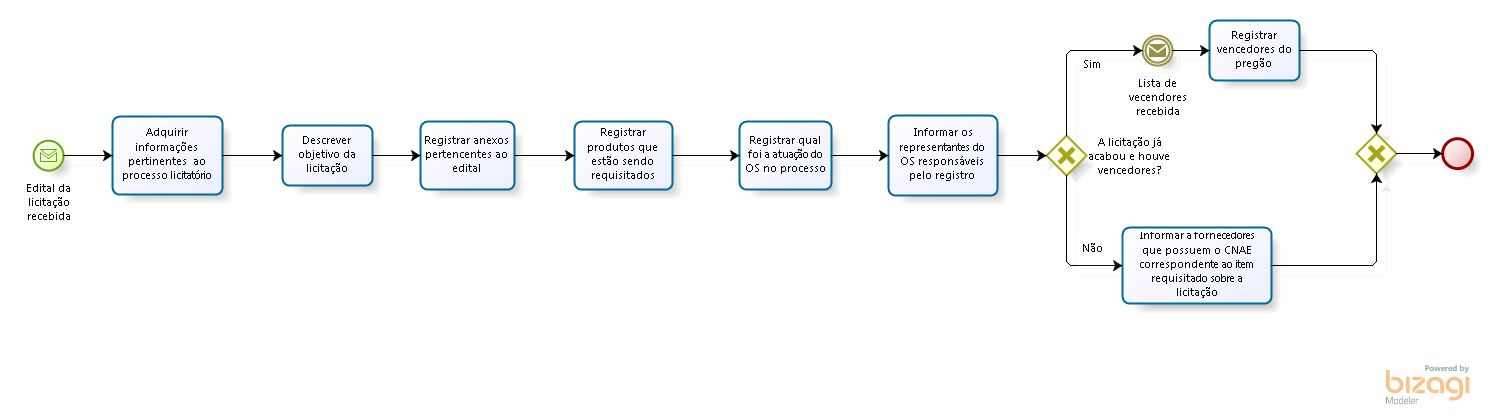
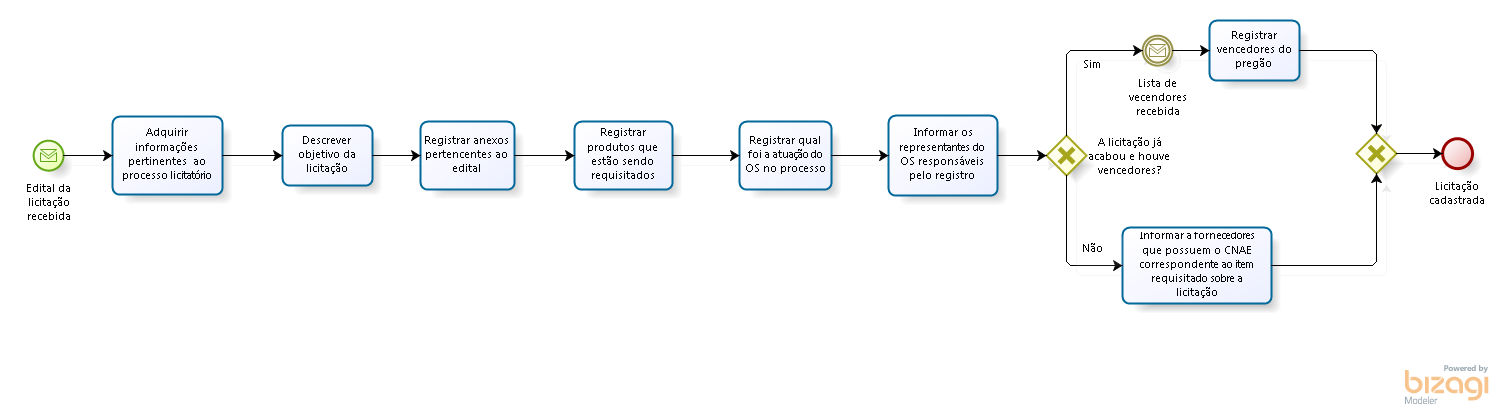
Refatoração do AS-IS

diff --git a/modelos/as-is/libs/js/json/configuration.json.js b/modelos/as-is/libs/js/json/configuration.json.js
@@ -1,1 +1,1 @@
-Bizagi.AppModel = {"personalized":false,"userLogoName":"\\libs\\img\\biz-ex-logo.png","bizagiUrl":"../../index.html","productName":"Bizagi Modeler","modelName":"As-Is SUJEITO A MUDANÇAS","publishDate":"14/03/2016 23:04:28","pages":[{"id":"4900ec46-6673-4b92-9cea-2ead6268862c","name":"Processo de Cadastramento de Licitações","version":"1.0","author":"cliente","image":"files\\diagrams\\Processo_de_Cadastramento_de_Licitacoes.png","isSubprocessPage":false,"elements":[{"id":"3dcf6f7e-a6d6-4b3b-b6b4-3597466986e4","name":"Observatório","elementImage":"files\\bpmnElements\\Participant.png","imageBounds":{"points":[{"x":20.0,"y":166.0}],"radius":0.0,"height":677.0,"width":50.0,"shape":"rect"},"elementType":"Participant","properties":[],"pageElements":[{"id":"0584135c-a88c-4838-9591-df6686612af6","name":"Documentos do Processo Licitatório Recebidos","elementImage":"files\\bpmnElements\\MessageStart.png","imageBounds":{"points":[{"x":125.0,"y":481.0}],"radius":15.0,"height":30.0,"width":30.0,"shape":"circle"},"elementType":"MessageStart"},{"id":"6faa62ec-958c-4423-bb1f-1e7b401b997f","name":"Cadastrar licitação no SIM","elementImage":"files\\bpmnElements\\SubProcess.png","imageBounds":{"points":[{"x":859.0,"y":720.0}],"radius":0.0,"height":60.0,"width":90.0,"shape":"rect"},"isPublished":true,"elementType":"SubProcess","properties":[]},{"id":"10a2eae6-888b-4f38-a444-20da634774df","name":"Mobilizar equipe para análise dos documentos expedidos","elementImage":"files\\bpmnElements\\AbstractTask.png","imageBounds":{"points":[{"x":332.0,"y":451.0}],"radius":0.0,"height":90.0,"width":139.0,"shape":"rect"},"elementType":"AbstractTask","properties":[]},{"id":"9234a240-ebaf-4a8d-9752-0391051b78af","name":"Documentos estão de acordo com a lei?","elementImage":"files\\bpmnElements\\ExclusiveGateway.png","imageBounds":{"points":[{"x":595.0,"y":476.0}],"radius":0.0,"height":40.0,"width":40.0,"shape":"poly"},"elementType":"ExclusiveGateway","properties":[],"pageElements":[{"name":"Sim","elementType":"SequenceFlow","properties":[]},{"name":"Não","elementType":"SequenceFlow","properties":[]}]},{"id":"9d6412ad-e924-455b-a642-4240469685bc","name":"Determinar equipe para  participar do certame","elementImage":"files\\bpmnElements\\AbstractTask.png","imageBounds":{"points":[{"x":655.0,"y":340.0}],"radius":0.0,"height":64.0,"width":101.0,"shape":"rect"},"elementType":"AbstractTask","properties":[]},{"id":"eb304f15-9b37-4193-8cb1-a07c1897ead8","name":"Dia do certame","elementImage":"files\\bpmnElements\\TimerIntermediate.png","imageBounds":{"points":[{"x":802.0,"y":357.0}],"radius":15.0,"height":30.0,"width":30.0,"shape":"circle"},"elementType":"TimerIntermediate"},{"id":"be98f8c6-4bec-4717-9208-e732e3bacd1c","name":"Monitorar e participar certame até que haja vencedores ","elementImage":"files\\bpmnElements\\SubProcess.png","imageBounds":{"points":[{"x":885.0,"y":342.0}],"radius":0.0,"height":60.0,"width":90.0,"shape":"rect"},"isPublished":true,"elementType":"SubProcess","properties":[]},{"id":"668e4d4d-222b-45e4-81e8-1b4ce32d2100","name":"Dia marcado para a entrega dos produtos","elementImage":"files\\bpmnElements\\TimerIntermediate.png","imageBounds":{"points":[{"x":1046.0,"y":357.0}],"radius":15.0,"height":30.0,"width":30.0,"shape":"circle"},"elementType":"TimerIntermediate"},{"id":"9bca7f44-5e02-4236-ade0-86caf3b4ad7e","name":"Mobilizar equipe para verificação da entrega ","elementImage":"files\\bpmnElements\\AbstractTask.png","imageBounds":{"points":[{"x":1122.0,"y":342.0}],"radius":0.0,"height":60.0,"width":95.0,"shape":"rect"},"elementType":"AbstractTask","properties":[]},{"id":"089f4a6d-e942-4e06-afd8-97df33a0ab96","name":"Os produtos são os mesmos solicitado?","elementImage":"files\\bpmnElements\\ExclusiveGateway.png","imageBounds":{"points":[{"x":1277.0,"y":352.0}],"radius":0.0,"height":40.0,"width":40.0,"shape":"poly"},"elementType":"ExclusiveGateway","properties":[],"pageElements":[{"name":"Sim","elementType":"SequenceFlow","properties":[]},{"name":"Não","elementType":"SequenceFlow","properties":[]}]},{"id":"e3c29863-74dc-43e7-a2c7-6525712b6715","name":"Comunicar um gestor sobre a irregularidade para tomada de providências cabíveis","elementImage":"files\\bpmnElements\\AbstractTask.png","imageBounds":{"points":[{"x":1234.0,"y":217.0}],"radius":0.0,"height":92.0,"width":126.0,"shape":"rect"},"elementType":"AbstractTask","properties":[]},{"id":"2b109ee6-4280-4bb4-a20f-acb404f59a6d","name":"Gateway","elementImage":"files\\bpmnElements\\ExclusiveGateway.png","imageBounds":{"points":[{"x":1438.88892,"y":352.0}],"radius":0.0,"height":40.0,"width":40.0,"shape":"poly"},"elementType":"ExclusiveGateway","properties":[],"pageElements":[{"name":"Portão","elementType":"SequenceFlow","properties":[]}]},{"id":"246fb247-a51f-40d7-b267-af0713fd9d83","name":"Efetuar uma solicitação de impugnação do edital","elementImage":"files\\bpmnElements\\AbstractTask.png","imageBounds":{"points":[{"x":654.0,"y":585.0}],"radius":0.0,"height":66.0,"width":102.0,"shape":"rect"},"elementType":"AbstractTask","properties":[]},{"id":"96de0ce2-9483-4337-b9d5-4c4dcc44f97d","name":"Edital corrigido","elementImage":"files\\bpmnElements\\TimerIntermediate.png","imageBounds":{"points":[{"x":818.0,"y":603.0}],"radius":15.0,"height":30.0,"width":30.0,"shape":"circle"},"elementType":"TimerIntermediate"},{"id":"ea1327ce-040c-48ea-ac85-42364f8cbaf3","name":"Gateway","elementImage":"files\\bpmnElements\\ParallelGateway.png","imageBounds":{"points":[{"x":216.0,"y":476.0}],"radius":0.0,"height":40.0,"width":40.0,"shape":"poly"},"elementType":"ParallelGateway","properties":[],"pageElements":[]},{"id":"e8640978-4e16-4b88-a560-279ab46c1cce","name":"Gateway","elementImage":"files\\bpmnElements\\ParallelGateway.png","imageBounds":{"points":[{"x":1515.0,"y":503.0}],"radius":0.0,"height":40.0,"width":40.0,"shape":"poly"},"elementType":"ParallelGateway","properties":[],"pageElements":[]},{"id":"eb516498-745e-4958-b93f-b351ca50f484","name":"Event","elementImage":"files\\bpmnElements\\NoneEnd.png","imageBounds":{"points":[{"x":1594.0,"y":508.0}],"radius":15.0,"height":30.0,"width":30.0,"shape":"circle"},"elementType":"NoneEnd"}]},{"id":"6281d3fb-45ca-4b81-8029-51e1c1ae4bae","name":"Prefeitura","elementImage":"files\\bpmnElements\\Participant.png","imageBounds":{"points":[{"x":20.0,"y":20.0}],"radius":0.0,"height":108.0,"width":50.0,"shape":"rect"},"elementType":"Participant","properties":[],"pageElements":[]}],"subPages":[{"id":"6faa62ec-958c-4423-bb1f-1e7b401b997f","name":"Cadastrar licitação no SIM","image":"files\\diagrams\\Cadastrar_licitacao_no_SIM.png","isSubprocessPage":true,"elements":[{"id":"70d12c9f-9844-44a6-96df-251c5839f773","name":"Edital da licitação recebida","elementImage":"files\\bpmnElements\\MessageStart.png","imageBounds":{"points":[{"x":33.0,"y":140.0}],"radius":15.0,"height":30.0,"width":30.0,"shape":"circle"},"elementType":"MessageStart"},{"id":"b5a121b2-fd94-483b-b7bb-63b47a983395","name":"Adquirir informações pertinentes  ao processo licitatório","elementImage":"files\\bpmnElements\\AbstractTask.png","imageBounds":{"points":[{"x":112.0,"y":116.0}],"radius":0.0,"height":78.0,"width":110.0,"shape":"rect"},"elementType":"AbstractTask","properties":[]},{"id":"c9fff6fe-b827-4456-b789-57db97eca613","name":"Descrever objetivo da licitação","elementImage":"files\\bpmnElements\\AbstractTask.png","imageBounds":{"points":[{"x":282.0,"y":125.0}],"radius":0.0,"height":60.0,"width":90.0,"shape":"rect"},"elementType":"AbstractTask","properties":[]},{"id":"eec63fe1-0318-4f15-8d1a-b07cda45bec2","name":"Registrar anexos  pertencentes ao edital","elementImage":"files\\bpmnElements\\AbstractTask.png","imageBounds":{"points":[{"x":420.0,"y":121.0}],"radius":0.0,"height":68.0,"width":94.0,"shape":"rect"},"elementType":"AbstractTask","properties":[]},{"id":"94db744e-291f-4970-9add-ddd1dbd2a805","name":"Registrar produtos que estão sendo requisitados","elementImage":"files\\bpmnElements\\AbstractTask.png","imageBounds":{"points":[{"x":574.0,"y":121.0}],"radius":0.0,"height":68.0,"width":98.0,"shape":"rect"},"elementType":"AbstractTask","properties":[]},{"id":"f39d4330-3571-4254-91f8-182c04bad035","name":"Registrar qual foi a atuação do OS no processo","elementImage":"files\\bpmnElements\\AbstractTask.png","imageBounds":{"points":[{"x":739.0,"y":121.0}],"radius":0.0,"height":68.0,"width":92.0,"shape":"rect"},"elementType":"AbstractTask","properties":[]},{"id":"a45347de-d0ed-4a04-9920-4dc127d4177a","name":"Informar os representantes do OS responsáveis pelo registro","elementImage":"files\\bpmnElements\\AbstractTask.png","imageBounds":{"points":[{"x":888.0,"y":115.0}],"radius":0.0,"height":80.0,"width":109.0,"shape":"rect"},"elementType":"AbstractTask","properties":[]},{"id":"ef30bbe1-0fa6-41be-ac64-9eaee675e9c6","name":"A licitação já acabou e houve vencedores?","elementImage":"files\\bpmnElements\\ExclusiveGateway.png","imageBounds":{"points":[{"x":1046.0,"y":135.0}],"radius":0.0,"height":40.0,"width":40.0,"shape":"poly"},"elementType":"ExclusiveGateway","properties":[],"pageElements":[{"name":"Sim","elementType":"SequenceFlow","properties":[]},{"name":"Não","elementType":"SequenceFlow","properties":[]}]},{"id":"cc3ecb41-550f-400d-97c1-d5e875c447bb","name":"Lista de vecendores recebida","elementImage":"files\\bpmnElements\\MessageIntermediate_Throw.png","imageBounds":{"points":[{"x":1142.0,"y":35.0}],"radius":15.0,"height":30.0,"width":30.0,"shape":"circle"},"elementType":"MessageIntermediate"},{"id":"33f78f6d-2a69-4e92-afb2-1e05e7ff2f17","name":"Registrar vencedores do pregão","elementImage":"files\\bpmnElements\\AbstractTask.png","imageBounds":{"points":[{"x":1209.0,"y":20.0}],"radius":0.0,"height":60.0,"width":90.0,"shape":"rect"},"elementType":"AbstractTask","properties":[]},{"id":"c7f7e054-61d6-4940-8c6e-b72b6811dccb","name":"Gateway","elementImage":"files\\bpmnElements\\ExclusiveGateway.png","imageBounds":{"points":[{"x":1356.0,"y":133.0}],"radius":0.0,"height":40.0,"width":40.0,"shape":"poly"},"elementType":"ExclusiveGateway","properties":[],"pageElements":[{"name":"Portão","elementType":"SequenceFlow","properties":[]}]},{"id":"eefcbc1b-ba86-4ced-b90b-78a42202b175","name":"Event","elementImage":"files\\bpmnElements\\NoneEnd.png","imageBounds":{"points":[{"x":1442.0,"y":138.0}],"radius":15.0,"height":30.0,"width":30.0,"shape":"circle"},"elementType":"NoneEnd"},{"id":"d620049d-6a95-427a-aa67-e1900ef64a33","name":"Informar a fornecedores que possuem o CNAE correspondente ao item requisitado sobre a licitação","elementImage":"files\\bpmnElements\\AbstractTask.png","imageBounds":{"points":[{"x":1122.0,"y":227.0}],"radius":0.0,"height":76.0,"width":149.0,"shape":"rect"},"elementType":"AbstractTask","properties":[]}],"parentRef":"4900ec46-6673-4b92-9cea-2ead6268862c"},{"id":"be98f8c6-4bec-4717-9208-e732e3bacd1c","name":"Monitorar e participar certame até que haja vencedores ","image":"files\\diagrams\\Monitorar_e_participar_certame_ate_que_haja_vencedores_.png","isSubprocessPage":true,"elements":[{"id":"237177fe-c120-42b9-ae58-4119b6abd2dc","name":"Event","elementImage":"files\\bpmnElements\\NoneStart.png","imageBounds":{"points":[{"x":20.0,"y":133.0}],"radius":15.0,"height":30.0,"width":30.0,"shape":"circle"},"elementType":"NoneStart"},{"id":"af4efe81-2562-442a-8c22-72c8fd774690","name":"Monitorar verificação dos itens apresentados","elementImage":"files\\bpmnElements\\AbstractTask.png","imageBounds":{"points":[{"x":124.0,"y":109.0}],"radius":0.0,"height":78.0,"width":106.0,"shape":"rect"},"elementType":"AbstractTask","properties":[]},{"id":"6ae5b524-278d-4f96-a21d-63e22e4f786b","name":"Algum item foi desqualificado?","elementImage":"files\\bpmnElements\\ExclusiveGateway.png","imageBounds":{"points":[{"x":291.0,"y":127.999969}],"radius":0.0,"height":40.0,"width":40.0,"shape":"poly"},"elementType":"ExclusiveGateway","properties":[],"pageElements":[{"name":"Sim","elementType":"SequenceFlow","properties":[]},{"name":"Não","elementType":"SequenceFlow","properties":[]}]},{"id":"e9519478-11fe-4536-8ce4-a21f8c57b78f","name":"Verificar motivo da desqualificação","elementImage":"files\\bpmnElements\\AbstractTask.png","imageBounds":{"points":[{"x":380.0,"y":20.0}],"radius":0.0,"height":68.0,"width":101.0,"shape":"rect"},"elementType":"AbstractTask","properties":[]},{"id":"7fd65d96-d583-47e9-b971-db696d25f368","name":"Gateway","elementImage":"files\\bpmnElements\\ExclusiveGateway.png","imageBounds":{"points":[{"x":525.0,"y":126.0}],"radius":0.0,"height":40.0,"width":40.0,"shape":"poly"},"elementType":"ExclusiveGateway","properties":[],"pageElements":[{"name":"Verificar se houve vencedores","elementType":"SequenceFlow","properties":[]}]},{"id":"ab9be0c6-0e5d-4ab3-a8ce-85c9484593f8","name":"Verificar se houve vencedores","elementImage":"files\\bpmnElements\\AbstractTask.png","imageBounds":{"points":[{"x":623.0,"y":116.0}],"radius":0.0,"height":60.0,"width":90.0,"shape":"rect"},"elementType":"AbstractTask","properties":[]},{"id":"b1a52857-4986-4a70-b940-06fcdd975034","name":"Event","elementImage":"files\\bpmnElements\\NoneEnd.png","imageBounds":{"points":[{"x":758.0,"y":131.0}],"radius":15.0,"height":30.0,"width":30.0,"shape":"circle"},"elementType":"NoneEnd"},{"id":"6bbe69d0-eb8a-40cb-8eb6-562212946a11","name":"Verificar se o item realmente está de acordo com o edital","elementImage":"files\\bpmnElements\\AbstractTask.png","imageBounds":{"points":[{"x":381.0,"y":211.0}],"radius":0.0,"height":66.0,"width":98.0,"shape":"rect"},"elementType":"AbstractTask","properties":[]}],"parentRef":"4900ec46-6673-4b92-9cea-2ead6268862c"}]}],"texts":{"tableOfContents":"Índice","pageNumber":"Página","pageNumberLabelOf":"de","version":"Versão","author":"Autor","description":"Descrição","mainPool":"Processo principal","mainPoolDescription":"Processo principal Descrição","processDiagrams":"Processar os Diagramas","processElements":"Elementos do processo","elements":"Elementos do processo","defaultElementName":"Elemento","performers":"Executantes","connectors":"Conectores","connector":"Conector","home":"Principal","search":"Pesquisar","goToParentProcess":"<< Ir para Matriz","visitBizagi":"Voltar para o site","contains":"Contém {0} subprocessos","showAll":"Show all","fullScreen":"Tela inteira","zoomIn":"Ampliar","zoomOut":"Reduzir","close":"Fechar","menu":"Menu: ","errorPage":"Erro ao visualizar a página","process":"Proceso","subProcess":"Subprocessos publicados","contain":"Contém","checkAttributes":"Ver atributos","checkOverview":"Ver resumo","unavailableResource":"O recurso não está disponível","localResource":"O recurso pode ser acessado localmente","performer":"Executor","linktoimage":"Link para a  imagem","presentationAction":"Ações de apresentação","searchGlobal":"Busca todos","searchLocal":"Busca neste processo","searchResults":"Nenhum resultado encontrado","titlePage":"Start","emptyElement":"Este elemento ainda não foi documentado","unsupported":"Seu navegador não suporta conteúdo exibido por esta página. <br> Recomendamos que você atualizar o seu navegador.","details":"Detalhes","expand":"Expandir","mainPoolProperties":"Propriedades do Processo principal","cannotVisualize":"The page cannot be displayed","resourceNotFound":"The requested resource was not found:","applyTheme":"Applying new theme"},"searchMap":[{"containerId":"4900ec46-6673-4b92-9cea-2ead6268862c","containerName":"Processo de Cadastramento de Licitações","isSubprocess":false,"elements":[{"id":"6281d3fb-45ca-4b81-8029-51e1c1ae4bae","value":"Prefeitura"},{"id":"3dcf6f7e-a6d6-4b3b-b6b4-3597466986e4","value":"Observatório"},{"id":"0584135c-a88c-4838-9591-df6686612af6","value":"Documentos do Processo Licitatório Recebidos"},{"id":"6faa62ec-958c-4423-bb1f-1e7b401b997f","value":"Cadastrar licitação no SIM"},{"id":"10a2eae6-888b-4f38-a444-20da634774df","value":"Mobilizar equipe para análise dos documentos expedidos"},{"id":"9234a240-ebaf-4a8d-9752-0391051b78af","value":"Documentos estão de acordo com a lei?"},{"id":"9d6412ad-e924-455b-a642-4240469685bc","value":"Determinar equipe para  participar do certame"},{"id":"668e4d4d-222b-45e4-81e8-1b4ce32d2100","value":"Dia marcado para a entrega dos produtos"},{"id":"eb304f15-9b37-4193-8cb1-a07c1897ead8","value":"Dia do certame"},{"id":"be98f8c6-4bec-4717-9208-e732e3bacd1c","value":"Monitorar e participar certame até que haja vencedores "},{"id":"9bca7f44-5e02-4236-ade0-86caf3b4ad7e","value":"Mobilizar equipe para verificação da entrega "},{"id":"089f4a6d-e942-4e06-afd8-97df33a0ab96","value":"Os produtos são os mesmos solicitado?"},{"id":"e3c29863-74dc-43e7-a2c7-6525712b6715","value":"Comunicar um gestor sobre a irregularidade para tomada de providências cabíveis"},{"id":"2b109ee6-4280-4bb4-a20f-acb404f59a6d","value":""},{"id":"246fb247-a51f-40d7-b267-af0713fd9d83","value":"Efetuar uma solicitação de impugnação do edital"},{"id":"96de0ce2-9483-4337-b9d5-4c4dcc44f97d","value":"Edital corrigido"},{"id":"ea1327ce-040c-48ea-ac85-42364f8cbaf3","value":""},{"id":"e8640978-4e16-4b88-a560-279ab46c1cce","value":""},{"id":"eb516498-745e-4958-b93f-b351ca50f484","value":""},{"id":"4d60567b-bd19-433b-a2ad-d553e9b057cb"},{"id":"653ce985-2180-4074-ab88-4b98cac8e5c2"}]},{"containerId":"6faa62ec-958c-4423-bb1f-1e7b401b997f","containerName":"Cadastrar licitação no SIM","isSubprocess":true,"elements":[{"id":"f39d4330-3571-4254-91f8-182c04bad035","value":"Registrar qual foi a atuação do OS no processo"},{"id":"c7f7e054-61d6-4940-8c6e-b72b6811dccb","value":""},{"id":"d620049d-6a95-427a-aa67-e1900ef64a33","value":"Informar a fornecedores que possuem o CNAE correspondente ao item requisitado sobre a licitação"},{"id":"eec63fe1-0318-4f15-8d1a-b07cda45bec2","value":"Registrar anexos  pertencentes ao edital"},{"id":"b5a121b2-fd94-483b-b7bb-63b47a983395","value":"Adquirir informações pertinentes  ao processo licitatório"},{"id":"33f78f6d-2a69-4e92-afb2-1e05e7ff2f17","value":"Registrar vencedores do pregão"},{"id":"eefcbc1b-ba86-4ced-b90b-78a42202b175","value":""},{"id":"c9fff6fe-b827-4456-b789-57db97eca613","value":"Descrever objetivo da licitação"},{"id":"ef30bbe1-0fa6-41be-ac64-9eaee675e9c6","value":"A licitação já acabou e houve vencedores?"},{"id":"a45347de-d0ed-4a04-9920-4dc127d4177a","value":"Informar os representantes do OS responsáveis pelo registro"},{"id":"70d12c9f-9844-44a6-96df-251c5839f773","value":"Edital da licitação recebida"},{"id":"cc3ecb41-550f-400d-97c1-d5e875c447bb","value":"Lista de vecendores recebida"},{"id":"94db744e-291f-4970-9add-ddd1dbd2a805","value":"Registrar produtos que estão sendo requisitados"}]},{"containerId":"be98f8c6-4bec-4717-9208-e732e3bacd1c","containerName":"Monitorar e participar certame até que haja vencedores ","isSubprocess":true,"elements":[{"id":"237177fe-c120-42b9-ae58-4119b6abd2dc","value":""},{"id":"af4efe81-2562-442a-8c22-72c8fd774690","value":"Monitorar verificação dos itens apresentados"},{"id":"6ae5b524-278d-4f96-a21d-63e22e4f786b","value":"Algum item foi desqualificado?"},{"id":"e9519478-11fe-4536-8ce4-a21f8c57b78f","value":"Verificar motivo da desqualificação"},{"id":"6bbe69d0-eb8a-40cb-8eb6-562212946a11","value":"Verificar se o item realmente está de acordo com o edital"},{"id":"7fd65d96-d583-47e9-b971-db696d25f368","value":""},{"id":"ab9be0c6-0e5d-4ab3-a8ce-85c9484593f8","value":"Verificar se houve vencedores"},{"id":"b1a52857-4986-4a70-b940-06fcdd975034","value":""}]}]}
+Bizagi.AppModel = {"personalized":false,"userLogoName":"\\libs\\img\\biz-ex-logo.png","bizagiUrl":"../../index.html","productName":"Bizagi Modeler","modelName":"As-Is SUJEITO A MUDANÇAS","publishDate":"15/03/2016 19:14:17","pages":[{"id":"dfe4c2ef-b9d1-4066-ae8e-234acd322f0b","name":"Processo de Cadastramento de Licitações","version":"1.0","author":"cliente","image":"files\\diagrams\\Processo_de_Cadastramento_de_Licitacoes.png","isSubprocessPage":false,"elements":[{"id":"eca57f63-5658-44e5-9b76-4f59242d1b3d","name":"Observatório","elementImage":"files\\bpmnElements\\Participant.png","imageBounds":{"points":[{"x":20.0,"y":166.0}],"radius":0.0,"height":677.0,"width":50.0,"shape":"rect"},"elementType":"Participant","properties":[],"pageElements":[{"id":"01e617dc-3437-4867-9820-ee5a076828a6","name":"Edital da licitação recebido","elementImage":"files\\bpmnElements\\NoneStart.png","imageBounds":{"points":[{"x":125.0,"y":481.0}],"radius":15.0,"height":30.0,"width":30.0,"shape":"circle"},"elementType":"NoneStart"},{"id":"fd097d91-3cd5-4d4a-93a6-9512cf1996b4","name":"Cadastrar licitação no SIM","elementImage":"files\\bpmnElements\\SubProcess.png","imageBounds":{"points":[{"x":859.0,"y":720.0}],"radius":0.0,"height":60.0,"width":90.0,"shape":"rect"},"isPublished":true,"elementType":"SubProcess","properties":[]},{"id":"88d90e1b-04f3-495c-a728-ccb5e06ebbd2","name":"Mobilizar equipe para análise dos documentos expedidos","elementImage":"files\\bpmnElements\\AbstractTask.png","imageBounds":{"points":[{"x":332.0,"y":451.0}],"radius":0.0,"height":90.0,"width":139.0,"shape":"rect"},"elementType":"AbstractTask","properties":[]},{"id":"1f9fa857-a3ef-4445-92b2-16c28c564470","name":"Documentos estão de acordo com a lei?","elementImage":"files\\bpmnElements\\ExclusiveGateway.png","imageBounds":{"points":[{"x":595.0,"y":476.0}],"radius":0.0,"height":40.0,"width":40.0,"shape":"poly"},"elementType":"ExclusiveGateway","properties":[],"pageElements":[{"name":"Sim","elementType":"SequenceFlow","properties":[]},{"name":"Não","elementType":"SequenceFlow","properties":[]}]},{"id":"e746334b-b9f1-4fa5-a7be-211a07d30757","name":"Determinar equipe para  participar do certame","elementImage":"files\\bpmnElements\\AbstractTask.png","imageBounds":{"points":[{"x":655.0,"y":340.0}],"radius":0.0,"height":64.0,"width":101.0,"shape":"rect"},"elementType":"AbstractTask","properties":[]},{"id":"fe47fcd6-b600-41cc-af7e-ffc56468c765","name":"Dia do certame","elementImage":"files\\bpmnElements\\TimerIntermediate.png","imageBounds":{"points":[{"x":802.0,"y":357.0}],"radius":15.0,"height":30.0,"width":30.0,"shape":"circle"},"elementType":"TimerIntermediate"},{"id":"94925a34-1713-47bc-adb5-17f69274e82c","name":"Monitorar e participar certame até que haja vencedores ","elementImage":"files\\bpmnElements\\SubProcess.png","imageBounds":{"points":[{"x":885.0,"y":342.0}],"radius":0.0,"height":60.0,"width":90.0,"shape":"rect"},"isPublished":true,"elementType":"SubProcess","properties":[]},{"id":"1c228f46-2766-4b41-9aef-cbb213e97f00","name":"Dia marcado para a entrega dos produtos","elementImage":"files\\bpmnElements\\TimerIntermediate.png","imageBounds":{"points":[{"x":1046.0,"y":357.0}],"radius":15.0,"height":30.0,"width":30.0,"shape":"circle"},"elementType":"TimerIntermediate"},{"id":"f6619b1a-7546-46f3-ba0f-a3e878a58e96","name":"Mobilizar equipe para verificação da entrega ","elementImage":"files\\bpmnElements\\AbstractTask.png","imageBounds":{"points":[{"x":1122.0,"y":342.0}],"radius":0.0,"height":60.0,"width":95.0,"shape":"rect"},"elementType":"AbstractTask","properties":[]},{"id":"264e63f3-12e0-4e91-abea-0416cab41d8a","name":"Os produtos são os mesmos solicitado?","elementImage":"files\\bpmnElements\\ExclusiveGateway.png","imageBounds":{"points":[{"x":1277.0,"y":352.0}],"radius":0.0,"height":40.0,"width":40.0,"shape":"poly"},"elementType":"ExclusiveGateway","properties":[],"pageElements":[{"name":"Sim","elementType":"SequenceFlow","properties":[]},{"name":"Não","elementType":"SequenceFlow","properties":[]}]},{"id":"43029a73-b8e1-4365-9e50-4dc1a35e6aca","name":"Comunicar um gestor sobre a irregularidade para tomada de providências cabíveis","elementImage":"files\\bpmnElements\\AbstractTask.png","imageBounds":{"points":[{"x":1234.0,"y":217.0}],"radius":0.0,"height":92.0,"width":126.0,"shape":"rect"},"elementType":"AbstractTask","properties":[]},{"id":"abb4bcd3-1408-4137-bc8e-672aca2b818e","name":"Gateway","elementImage":"files\\bpmnElements\\ExclusiveGateway.png","imageBounds":{"points":[{"x":1438.88892,"y":352.0}],"radius":0.0,"height":40.0,"width":40.0,"shape":"poly"},"elementType":"ExclusiveGateway","properties":[],"pageElements":[{"name":"Portão","elementType":"SequenceFlow","properties":[]}]},{"id":"bc2057da-228d-4205-b48c-3cc0cd8af3a0","name":"Efetuar uma solicitação de impugnação do edital","elementImage":"files\\bpmnElements\\AbstractTask.png","imageBounds":{"points":[{"x":654.0,"y":585.0}],"radius":0.0,"height":66.0,"width":102.0,"shape":"rect"},"elementType":"AbstractTask","properties":[]},{"id":"acc0eabf-2ad7-4416-88ba-03120bef515f","name":"Event","elementImage":"files\\bpmnElements\\MessageIntermediate.png","imageBounds":{"points":[{"x":863.0,"y":326.0}],"radius":11.0,"height":22.0,"width":22.0,"shape":"circle"},"elementType":"MessageIntermediate"},{"id":"a287971c-115f-4bcf-9c09-1ea1ee3cfff5","name":"Cancelar cadastro de licitação","elementImage":"files\\bpmnElements\\CompensationIntermediate_Throw.png","imageBounds":{"points":[{"x":908.0,"y":180.0}],"radius":15.0,"height":30.0,"width":30.0,"shape":"circle"},"elementType":"CompensationIntermediate"},{"id":"40350823-a22e-4501-ab87-2ccb415e0ef6","name":"Fim do acompanhamento","elementImage":"files\\bpmnElements\\TerminateEnd.png","imageBounds":{"points":[{"x":1006.0,"y":180.0}],"radius":15.0,"height":30.0,"width":30.0,"shape":"circle"},"elementType":"TerminateEnd"},{"id":"4c1eb271-b3bb-4885-90fb-45c3c45877c1","name":"Gateway","elementImage":"files\\bpmnElements\\ParallelGateway.png","imageBounds":{"points":[{"x":216.0,"y":476.0}],"radius":0.0,"height":40.0,"width":40.0,"shape":"poly"},"elementType":"ParallelGateway","properties":[],"pageElements":[]},{"id":"46146b10-c1d5-49c7-8483-90f42937986e","name":"Gateway","elementImage":"files\\bpmnElements\\ParallelGateway.png","imageBounds":{"points":[{"x":1515.0,"y":503.0}],"radius":0.0,"height":40.0,"width":40.0,"shape":"poly"},"elementType":"ParallelGateway","properties":[],"pageElements":[]},{"id":"1452fe46-3794-41b4-80e8-2fd091d6716b","name":"Fim do acompanhamento","elementImage":"files\\bpmnElements\\NoneEnd.png","imageBounds":{"points":[{"x":1594.0,"y":508.0}],"radius":15.0,"height":30.0,"width":30.0,"shape":"circle"},"elementType":"NoneEnd"},{"id":"b8f9749c-7703-4821-87e3-4c57427e57e1","name":"Edital corrigido","elementImage":"files\\bpmnElements\\MessageIntermediate_Catch.png","imageBounds":{"points":[{"x":807.0,"y":603.0}],"radius":15.0,"height":30.0,"width":30.0,"shape":"circle"},"elementType":"MessageIntermediate"},{"id":"5878a807-ee9e-443f-bdd8-6e50601ab168","name":"Event","elementImage":"files\\bpmnElements\\CompensationIntermediate.png","imageBounds":{"points":[{"x":847.0,"y":698.0}],"radius":11.0,"height":22.0,"width":22.0,"shape":"circle"},"elementType":"CompensationIntermediate"},{"id":"a904e55e-91fc-4f6f-bf35-1db1fa43fcf1","name":"Desfazer registros feitos no SIM","elementImage":"files\\bpmnElements\\AbstractTask.png","imageBounds":{"points":[{"x":971.0,"y":623.0}],"radius":0.0,"height":60.0,"width":90.0,"shape":"rect"},"elementType":"AbstractTask","properties":[]}]},{"id":"d82d4f17-d261-4a86-8b29-99d3547e1503","name":"Prefeitura","elementImage":"files\\bpmnElements\\Participant.png","imageBounds":{"points":[{"x":20.0,"y":20.0}],"radius":0.0,"height":108.0,"width":50.0,"shape":"rect"},"elementType":"Participant","properties":[],"pageElements":[]}],"subPages":[{"id":"fd097d91-3cd5-4d4a-93a6-9512cf1996b4","name":"Cadastrar licitação no SIM","image":"files\\diagrams\\Cadastrar_licitacao_no_SIM.png","isSubprocessPage":true,"elements":[{"id":"13003625-aa14-4a3d-8a95-f147d912eb92","name":"Edital da licitação recebida","elementImage":"files\\bpmnElements\\MessageStart.png","imageBounds":{"points":[{"x":33.0,"y":140.0}],"radius":15.0,"height":30.0,"width":30.0,"shape":"circle"},"elementType":"MessageStart"},{"id":"dd9c6d80-e0d6-4210-874b-fe40d1a54d09","name":"Adquirir informações pertinentes  ao processo licitatório","elementImage":"files\\bpmnElements\\AbstractTask.png","imageBounds":{"points":[{"x":112.0,"y":116.0}],"radius":0.0,"height":78.0,"width":110.0,"shape":"rect"},"elementType":"AbstractTask","properties":[]},{"id":"8249d620-9aae-4e14-9035-822376c33406","name":"Descrever objetivo da licitação","elementImage":"files\\bpmnElements\\AbstractTask.png","imageBounds":{"points":[{"x":282.0,"y":125.0}],"radius":0.0,"height":60.0,"width":90.0,"shape":"rect"},"elementType":"AbstractTask","properties":[]},{"id":"3e5a8c0e-e13d-43ea-ba17-bbc81ced2a86","name":"Registrar anexos  pertencentes ao edital","elementImage":"files\\bpmnElements\\AbstractTask.png","imageBounds":{"points":[{"x":420.0,"y":121.0}],"radius":0.0,"height":68.0,"width":94.0,"shape":"rect"},"elementType":"AbstractTask","properties":[]},{"id":"4225582f-cbdc-413a-b264-624485b0708c","name":"Registrar produtos que estão sendo requisitados","elementImage":"files\\bpmnElements\\AbstractTask.png","imageBounds":{"points":[{"x":574.0,"y":121.0}],"radius":0.0,"height":68.0,"width":98.0,"shape":"rect"},"elementType":"AbstractTask","properties":[]},{"id":"936dc4d3-a1de-4c8f-ac7a-72977964cf0b","name":"Registrar qual foi a atuação do OS no processo","elementImage":"files\\bpmnElements\\AbstractTask.png","imageBounds":{"points":[{"x":739.0,"y":121.0}],"radius":0.0,"height":68.0,"width":92.0,"shape":"rect"},"elementType":"AbstractTask","properties":[]},{"id":"4cc68f73-133d-4112-92ff-debf23b89ce6","name":"Informar os representantes do OS responsáveis pelo registro","elementImage":"files\\bpmnElements\\AbstractTask.png","imageBounds":{"points":[{"x":888.0,"y":115.0}],"radius":0.0,"height":80.0,"width":109.0,"shape":"rect"},"elementType":"AbstractTask","properties":[]},{"id":"1465aaf4-454c-4900-9a31-a9d2996dcd9c","name":"A licitação já acabou e houve vencedores?","elementImage":"files\\bpmnElements\\ExclusiveGateway.png","imageBounds":{"points":[{"x":1046.0,"y":135.0}],"radius":0.0,"height":40.0,"width":40.0,"shape":"poly"},"elementType":"ExclusiveGateway","properties":[],"pageElements":[{"name":"Sim","elementType":"SequenceFlow","properties":[]},{"name":"Não","elementType":"SequenceFlow","properties":[]}]},{"id":"1b774b41-6fa6-46a8-bbaf-9d1daaba6708","name":"Lista de vecendores recebida","elementImage":"files\\bpmnElements\\MessageIntermediate_Catch.png","imageBounds":{"points":[{"x":1142.0,"y":35.0}],"radius":15.0,"height":30.0,"width":30.0,"shape":"circle"},"elementType":"MessageIntermediate"},{"id":"d451eede-c583-44ad-8af5-c5ed2d572271","name":"Registrar vencedores do pregão","elementImage":"files\\bpmnElements\\AbstractTask.png","imageBounds":{"points":[{"x":1209.0,"y":20.0}],"radius":0.0,"height":60.0,"width":90.0,"shape":"rect"},"elementType":"AbstractTask","properties":[]},{"id":"6e2ed575-0694-4b21-bd6e-848b3104630a","name":"Gateway","elementImage":"files\\bpmnElements\\ExclusiveGateway.png","imageBounds":{"points":[{"x":1356.0,"y":133.0}],"radius":0.0,"height":40.0,"width":40.0,"shape":"poly"},"elementType":"ExclusiveGateway","properties":[],"pageElements":[{"name":"Licitação cadastrada","elementType":"SequenceFlow","properties":[]}]},{"id":"3225c79d-2051-4601-8c51-97001aceeed5","name":"Licitação cadastrada","elementImage":"files\\bpmnElements\\NoneEnd.png","imageBounds":{"points":[{"x":1442.0,"y":138.0}],"radius":15.0,"height":30.0,"width":30.0,"shape":"circle"},"elementType":"NoneEnd"},{"id":"de15962b-6bd9-4c0d-9faa-93c3c5f6bb29","name":"Informar a fornecedores que possuem o CNAE correspondente ao item requisitado sobre a licitação","elementImage":"files\\bpmnElements\\AbstractTask.png","imageBounds":{"points":[{"x":1122.0,"y":227.0}],"radius":0.0,"height":76.0,"width":149.0,"shape":"rect"},"elementType":"AbstractTask","properties":[]}],"parentRef":"dfe4c2ef-b9d1-4066-ae8e-234acd322f0b"},{"id":"94925a34-1713-47bc-adb5-17f69274e82c","name":"Monitorar e participar certame até que haja vencedores ","image":"files\\diagrams\\Monitorar_e_participar_certame_ate_que_haja_vencedores_.png","isSubprocessPage":true,"elements":[{"id":"29f19df7-1d27-41f1-96df-e8c65383780c","name":"Event","elementImage":"files\\bpmnElements\\NoneStart.png","imageBounds":{"points":[{"x":20.0,"y":133.0}],"radius":15.0,"height":30.0,"width":30.0,"shape":"circle"},"elementType":"NoneStart"},{"id":"bcb5b6ce-159b-4f06-aa37-c1b44099fea7","name":"Monitorar verificação dos itens apresentados","elementImage":"files\\bpmnElements\\AbstractTask.png","imageBounds":{"points":[{"x":124.0,"y":111.0}],"radius":0.0,"height":74.0,"width":96.0,"shape":"rect"},"elementType":"AbstractTask","properties":[]},{"id":"f4ce8aa5-916b-4702-b64b-bf30fe42214f","name":"Algum item foi desqualificado?","elementImage":"files\\bpmnElements\\ExclusiveGateway.png","imageBounds":{"points":[{"x":291.0,"y":127.999969}],"radius":0.0,"height":40.0,"width":40.0,"shape":"poly"},"elementType":"ExclusiveGateway","properties":[],"pageElements":[{"name":"Sim","elementType":"SequenceFlow","properties":[]},{"name":"Não","elementType":"SequenceFlow","properties":[]}]},{"id":"81d1293e-4095-4a48-8245-5a89328ed6c3","name":"Verificar motivo da desqualificação","elementImage":"files\\bpmnElements\\AbstractTask.png","imageBounds":{"points":[{"x":380.0,"y":20.0}],"radius":0.0,"height":68.0,"width":101.0,"shape":"rect"},"elementType":"AbstractTask","properties":[]},{"id":"103b2fd0-3795-4e16-b623-da11ade4a085","name":"Gateway","elementImage":"files\\bpmnElements\\ExclusiveGateway.png","imageBounds":{"points":[{"x":525.0,"y":126.0}],"radius":0.0,"height":40.0,"width":40.0,"shape":"poly"},"elementType":"ExclusiveGateway","properties":[],"pageElements":[{"name":"Verificar se houve vencedores","elementType":"SequenceFlow","properties":[]}]},{"id":"47684a39-764b-4173-b982-f7641730fc08","name":"Verificar se houve vencedores","elementImage":"files\\bpmnElements\\AbstractTask.png","imageBounds":{"points":[{"x":623.0,"y":116.0}],"radius":0.0,"height":60.0,"width":90.0,"shape":"rect"},"elementType":"AbstractTask","properties":[]},{"id":"bb43b4f9-6cff-4382-a85b-190d265dca16","name":"Fim do certame","elementImage":"files\\bpmnElements\\NoneEnd.png","imageBounds":{"points":[{"x":758.0,"y":131.0}],"radius":15.0,"height":30.0,"width":30.0,"shape":"circle"},"elementType":"NoneEnd"},{"id":"1d1d1943-8c43-4e85-9b59-9909158963ed","name":"Verificar se o item realmente está de acordo com o edital","elementImage":"files\\bpmnElements\\AbstractTask.png","imageBounds":{"points":[{"x":381.0,"y":211.0}],"radius":0.0,"height":66.0,"width":98.0,"shape":"rect"},"elementType":"AbstractTask","properties":[]}],"parentRef":"dfe4c2ef-b9d1-4066-ae8e-234acd322f0b"}]}],"texts":{"tableOfContents":"Índice","pageNumber":"Página","pageNumberLabelOf":"de","version":"Versão","author":"Autor","description":"Descrição","mainPool":"Processo principal","mainPoolDescription":"Processo principal Descrição","processDiagrams":"Processar os Diagramas","processElements":"Elementos do processo","elements":"Elementos do processo","defaultElementName":"Elemento","performers":"Executantes","connectors":"Conectores","connector":"Conector","home":"Principal","search":"Pesquisar","goToParentProcess":"<< Ir para Matriz","visitBizagi":"Voltar para o site","contains":"Contém {0} subprocessos","showAll":"Show all","fullScreen":"Tela inteira","zoomIn":"Ampliar","zoomOut":"Reduzir","close":"Fechar","menu":"Menu: ","errorPage":"Erro ao visualizar a página","process":"Proceso","subProcess":"Subprocessos publicados","contain":"Contém","checkAttributes":"Ver atributos","checkOverview":"Ver resumo","unavailableResource":"O recurso não está disponível","localResource":"O recurso pode ser acessado localmente","performer":"Executor","linktoimage":"Link para a  imagem","presentationAction":"Ações de apresentação","searchGlobal":"Busca todos","searchLocal":"Busca neste processo","searchResults":"Nenhum resultado encontrado","titlePage":"Start","emptyElement":"Este elemento ainda não foi documentado","unsupported":"Seu navegador não suporta conteúdo exibido por esta página. <br> Recomendamos que você atualizar o seu navegador.","details":"Detalhes","expand":"Expandir","mainPoolProperties":"Propriedades do Processo principal","cannotVisualize":"The page cannot be displayed","resourceNotFound":"The requested resource was not found:","applyTheme":"Applying new theme"},"searchMap":[{"containerId":"dfe4c2ef-b9d1-4066-ae8e-234acd322f0b","containerName":"Processo de Cadastramento de Licitações","isSubprocess":false,"elements":[{"id":"d82d4f17-d261-4a86-8b29-99d3547e1503","value":"Prefeitura"},{"id":"eca57f63-5658-44e5-9b76-4f59242d1b3d","value":"Observatório"},{"id":"fd097d91-3cd5-4d4a-93a6-9512cf1996b4","value":"Cadastrar licitação no SIM"},{"id":"88d90e1b-04f3-495c-a728-ccb5e06ebbd2","value":"Mobilizar equipe para análise dos documentos expedidos"},{"id":"1f9fa857-a3ef-4445-92b2-16c28c564470","value":"Documentos estão de acordo com a lei?"},{"id":"e746334b-b9f1-4fa5-a7be-211a07d30757","value":"Determinar equipe para  participar do certame"},{"id":"1c228f46-2766-4b41-9aef-cbb213e97f00","value":"Dia marcado para a entrega dos produtos"},{"id":"fe47fcd6-b600-41cc-af7e-ffc56468c765","value":"Dia do certame"},{"id":"94925a34-1713-47bc-adb5-17f69274e82c","value":"Monitorar e participar certame até que haja vencedores "},{"id":"f6619b1a-7546-46f3-ba0f-a3e878a58e96","value":"Mobilizar equipe para verificação da entrega "},{"id":"264e63f3-12e0-4e91-abea-0416cab41d8a","value":"Os produtos são os mesmos solicitado?"},{"id":"43029a73-b8e1-4365-9e50-4dc1a35e6aca","value":"Comunicar um gestor sobre a irregularidade para tomada de providências cabíveis"},{"id":"abb4bcd3-1408-4137-bc8e-672aca2b818e","value":""},{"id":"bc2057da-228d-4205-b48c-3cc0cd8af3a0","value":"Efetuar uma solicitação de impugnação do edital"},{"id":"4c1eb271-b3bb-4885-90fb-45c3c45877c1","value":""},{"id":"46146b10-c1d5-49c7-8483-90f42937986e","value":""},{"id":"1452fe46-3794-41b4-80e8-2fd091d6716b","value":"Fim do acompanhamento"},{"id":"b8f9749c-7703-4821-87e3-4c57427e57e1","value":"Edital corrigido"},{"id":"acc0eabf-2ad7-4416-88ba-03120bef515f","value":""},{"id":"5878a807-ee9e-443f-bdd8-6e50601ab168","value":""},{"id":"a904e55e-91fc-4f6f-bf35-1db1fa43fcf1","value":"Desfazer registros feitos no SIM"},{"id":"a287971c-115f-4bcf-9c09-1ea1ee3cfff5","value":"Cancelar cadastro de licitação"},{"id":"40350823-a22e-4501-ab87-2ccb415e0ef6","value":"Fim do acompanhamento"},{"id":"01e617dc-3437-4867-9820-ee5a076828a6","value":"Edital da licitação recebido"},{"id":"36427e02-8727-45fb-ae71-89d01baf3228"},{"id":"591db38c-105b-40f6-ab96-d4db8a2761ab"},{"id":"132f17e3-4a1f-4dae-aeda-2a45c5e159eb","value":"Cancelar cadastro de licitação"}]},{"containerId":"fd097d91-3cd5-4d4a-93a6-9512cf1996b4","containerName":"Cadastrar licitação no SIM","isSubprocess":true,"elements":[{"id":"936dc4d3-a1de-4c8f-ac7a-72977964cf0b","value":"Registrar qual foi a atuação do OS no processo"},{"id":"4225582f-cbdc-413a-b264-624485b0708c","value":"Registrar produtos que estão sendo requisitados"},{"id":"13003625-aa14-4a3d-8a95-f147d912eb92","value":"Edital da licitação recebida"},{"id":"4cc68f73-133d-4112-92ff-debf23b89ce6","value":"Informar os representantes do OS responsáveis pelo registro"},{"id":"1465aaf4-454c-4900-9a31-a9d2996dcd9c","value":"A licitação já acabou e houve vencedores?"},{"id":"8249d620-9aae-4e14-9035-822376c33406","value":"Descrever objetivo da licitação"},{"id":"1b774b41-6fa6-46a8-bbaf-9d1daaba6708","value":"Lista de vecendores recebida"},{"id":"d451eede-c583-44ad-8af5-c5ed2d572271","value":"Registrar vencedores do pregão"},{"id":"dd9c6d80-e0d6-4210-874b-fe40d1a54d09","value":"Adquirir informações pertinentes  ao processo licitatório"},{"id":"3e5a8c0e-e13d-43ea-ba17-bbc81ced2a86","value":"Registrar anexos  pertencentes ao edital"},{"id":"de15962b-6bd9-4c0d-9faa-93c3c5f6bb29","value":"Informar a fornecedores que possuem o CNAE correspondente ao item requisitado sobre a licitação"},{"id":"6e2ed575-0694-4b21-bd6e-848b3104630a","value":""},{"id":"3225c79d-2051-4601-8c51-97001aceeed5","value":"Licitação cadastrada"}]},{"containerId":"94925a34-1713-47bc-adb5-17f69274e82c","containerName":"Monitorar e participar certame até que haja vencedores ","isSubprocess":true,"elements":[{"id":"29f19df7-1d27-41f1-96df-e8c65383780c","value":""},{"id":"bcb5b6ce-159b-4f06-aa37-c1b44099fea7","value":"Monitorar verificação dos itens apresentados"},{"id":"f4ce8aa5-916b-4702-b64b-bf30fe42214f","value":"Algum item foi desqualificado?"},{"id":"81d1293e-4095-4a48-8245-5a89328ed6c3","value":"Verificar motivo da desqualificação"},{"id":"1d1d1943-8c43-4e85-9b59-9909158963ed","value":"Verificar se o item realmente está de acordo com o edital"},{"id":"103b2fd0-3795-4e16-b623-da11ade4a085","value":""},{"id":"47684a39-764b-4173-b982-f7641730fc08","value":"Verificar se houve vencedores"},{"id":"bb43b4f9-6cff-4382-a85b-190d265dca16","value":"Fim do certame"}]}]}

diff --git a/modelos/as-is/index.html b/modelos/as-is/index.html
@@ -4,7 +4,7 @@
  @author: UX-Team
  @version: 0.1.0
  @url: http://www.bizagi.com
- @date: Aug 14, 2015 4:08 PM 
+ @date: Aug 14, 2015 4:08 PM
 ***************************************************************************** /
  -->
 <div class="biz-ex-wrapper row"></div><div class="alert-box biz-ex-supported"><p id="biz-ex-support"></p><a href="http://www.google.com/intl/es-419/chrome/" title="Chrome" target="_blank"><span class="biz-ex-iconbrowser-chrome"></span></a> <a href="http://www.mozilla.org/en-US/firefox/new/" title="Firefox" target="_blank"><span class="biz-ex-iconbrowser-firefox"></span></a> <a href="http://windows.microsoft.com/en-us/internet-explorer/download-ie" title="IE 9+" target="_blank"><span class="biz-ex-iconbrowser-ie"></span></a></div><script type="text/javascript" src="libs/js/app/app.ie8detect.js"></script><script src="key.json.js"></script><script id="json" src="libs/js/json/configuration.json.js"></script><script id="initialization">switch (window.location.protocol) {
